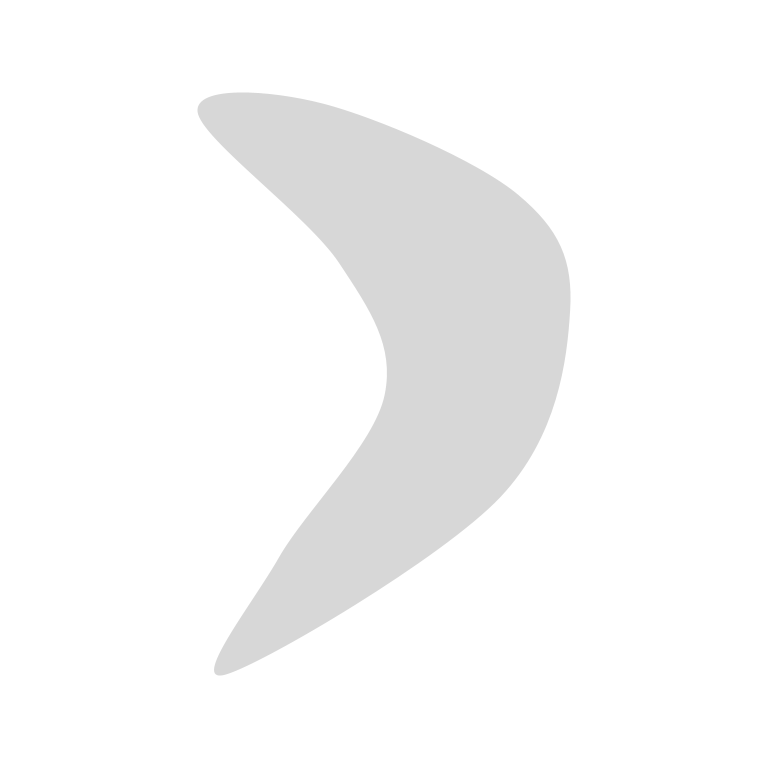
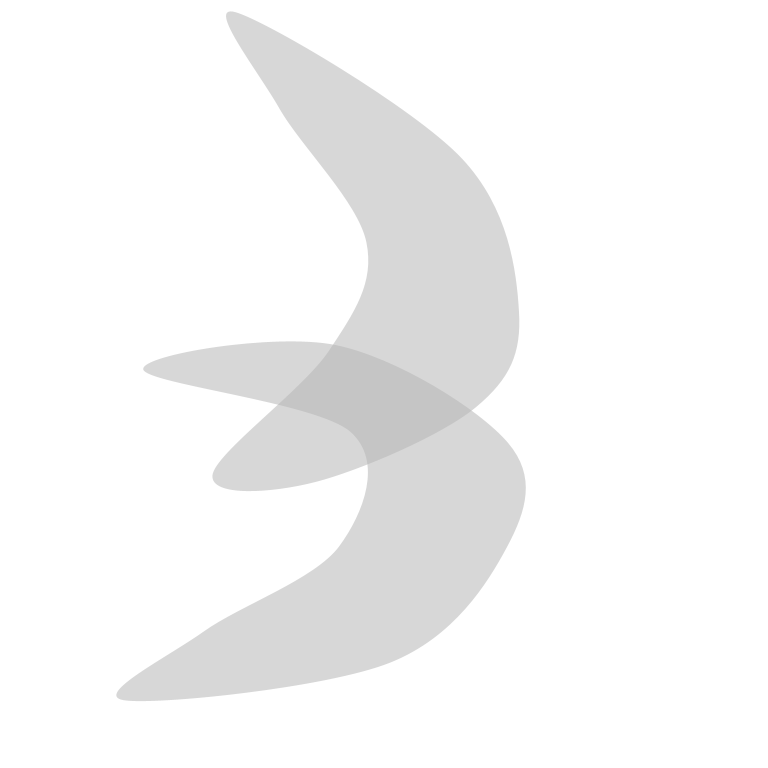
Update wave particles

Changed region(s): [[0.1875, 0.0, 0.5938, 0.7812], [0.1562, 0.2188, 0.75, 0.9375]]

diff --git a/app.js b/app.js
@@ -290,7 +290,7 @@ var movingParticlesID = {} // contains the ID of the particles that move
 var particleTimeouts = {}
 var particleFrequency = 400 // 
 class Particle{
-    constructor(x, y, radius=random(entitySize/2, entitySize/5), imgSrc=null, angle=null, source=null, speed=random(2,0.1)){
+    constructor(x, y, radius=random(entitySize/2, entitySize/5), imgSrc=null, angle=null, source=null, speed=random(0.5,0.1)){
         this.x = x
         this.y = y
         this.duration = 95
@@ -944,14 +944,14 @@ setInterval(()=>{
     }
 
     //Add moving particles
-    if(random(10, 1) == 1){
+    if(random(100, 1) == 1){
         let lake = lakes[Object.keys(lakes)[random(Object.keys(lakes).length-1, 0)]]
         let angle = Math.random() * 2 * Math.PI;
         let distance = Math.sqrt(Math.random()) * lake.radius;
         let x = lake.x + distance * Math.cos(angle);
         let y = lake.y + distance * Math.sin(angle);
         let id = createID()
-        particles[id] = new Particle(x, y, random(100, 50), `/imgs/Wave${random(3,1)}.png`, angle, {...lake})
+        particles[id] = new Particle(x, y, random(100, 80), `/imgs/Wave${random(3,1)}.png`, angle, {...lake})
         movingParticlesID[id] = id
     }
     // Update particles
